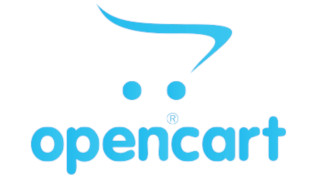
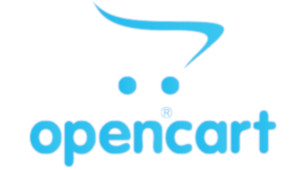
redmensionado imagem opencart

diff --git a/opencart.html b/opencart.html
@@ -44,28 +44,27 @@
         </div>
         <div class="col span_1_of_3 boxa">
             <p class="aligncenter"><i class="ion-android-settings sbig"></i></p>
-            <p>Criação dos departamentos e categorias da loja, cadastro de produtos, marcas, atributos, filtros e opções.</p>
+            <p>Criação dos departamentos e categoriass da loja virtual.</p>
+            <p>Cadastro de produtos, marcas, atributos, filtros e opções.</p>
+            <p>Homologação do meios de pagamentos </p>
             <p>Treinamento de utilização do sistema para o gerente da loja virtual</p>       
         </div>
         <div class="col span_1_of_3 boxa">
             <p class="aligncenter"><i class="ion-locked sbig"></i></p>
             <p>Implementação de segurança no servidor de hospedagem</p>
             <p>Implementação de certificado digital <strong> SSL </strong> <br>Segurança para o cliente e maior credibilidade para a loja virtual</p>           
-
         </div>
-
     </div>
   </article>
 <section class="br">
      <div class="row aligncenter">
         <p><img src="img/opencart.jpg" alt="Plataforma E-commerce Opencart"></p>
         <h2>Gerenciamento da loja virtual Opencart</h2>
+        <p><strong>Opencart</strong> é uma das platafomas de E-commerce mais utilizadas no mundo, por ser Open Source, segura <br>e otimizada para mecanismo de busca como Google, Bing, Yahoo... </p>
         <p>Fácil gerenciamento de departamentos, produtos, clientes, pedidos, promoções e descontos.</p>
         <p>Possibilidade de criação de filtros e opções para os produtos.</p>
         <p>Milhares de extensões e módulos expandir a funcionalidade da sua loja; Gratuitos e pagos.</p>
     </section>
-
-
   </section>
 </main>
  <footer>
